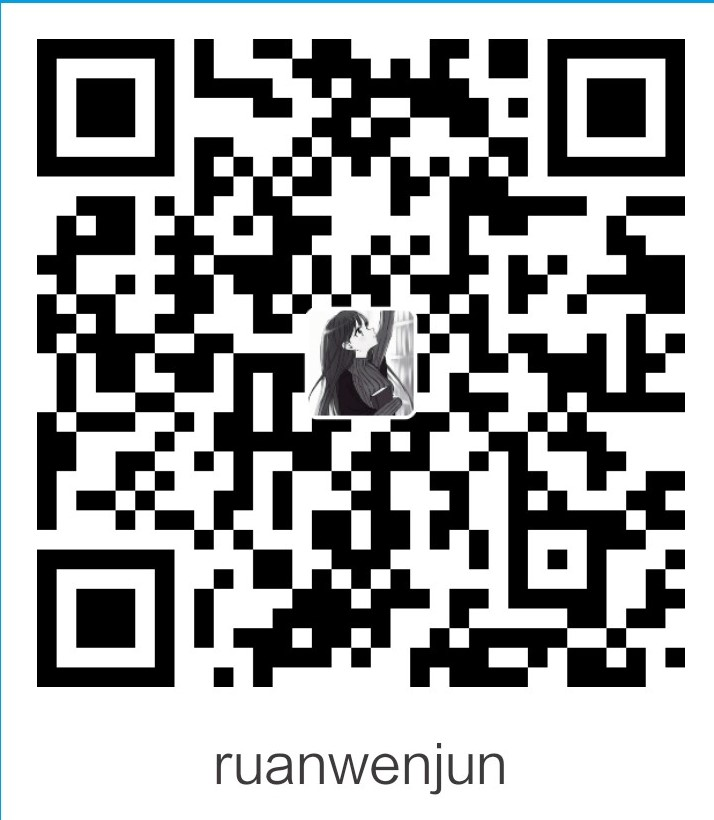
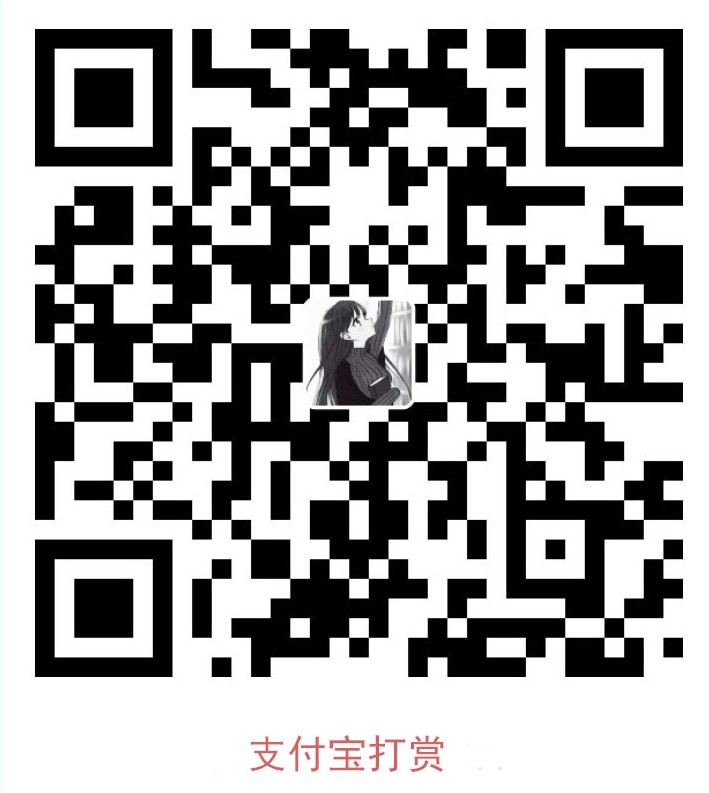
更改打赏页面

Changed region(s): [[0.0, 0.0, 1.0, 0.8777], [0.2793, 0.9079, 0.7137, 0.9987], [0.031, 0.3026, 0.0621, 0.3329]]

diff --git a/_layouts/default.html b/_layouts/default.html
@@ -37,7 +37,7 @@
       <footer>
       	 <div>
       	 	<a id="paycode" >
-            	<img src="/images/pay.png" style="cursor: pointer;" />
+            	<img src="/images/pay.png" style="cursor: pointer;height: 68px;" />
         	</a>
       	 </div> 
         <a href="https://weibo.com/u/2885734002">
@@ -99,11 +99,11 @@
 
        $('#paycode').on('click', function(){
 	    	layer.open({
-	    		title:"感谢您的打赏",
+	    		title:"感谢您的打赏!!",
 	     	 	type: 1,
 	      		area: ['600px', '334px'],
 	      		shadeClose: true, //点击遮罩关闭
-	      		content: '\<\div style="padding:20px;"><img style="width: 250px; " src="/images/alipay.jpg" />\<\/div>\<\div style="padding:20px;"><img style="width: 250px; " src="/images/weixinpay.png" />\<\/div>'
+	      		content: '\<\div style="padding:20px;"><img style="width: 250px; " src="/images/alipay.jpg" /><img style="width: 250px; " src="/images/weixinpay.png" />\<\div>之所以加入打赏功能仅是希望能得到认可！！'
 	    	});
   		});
 
